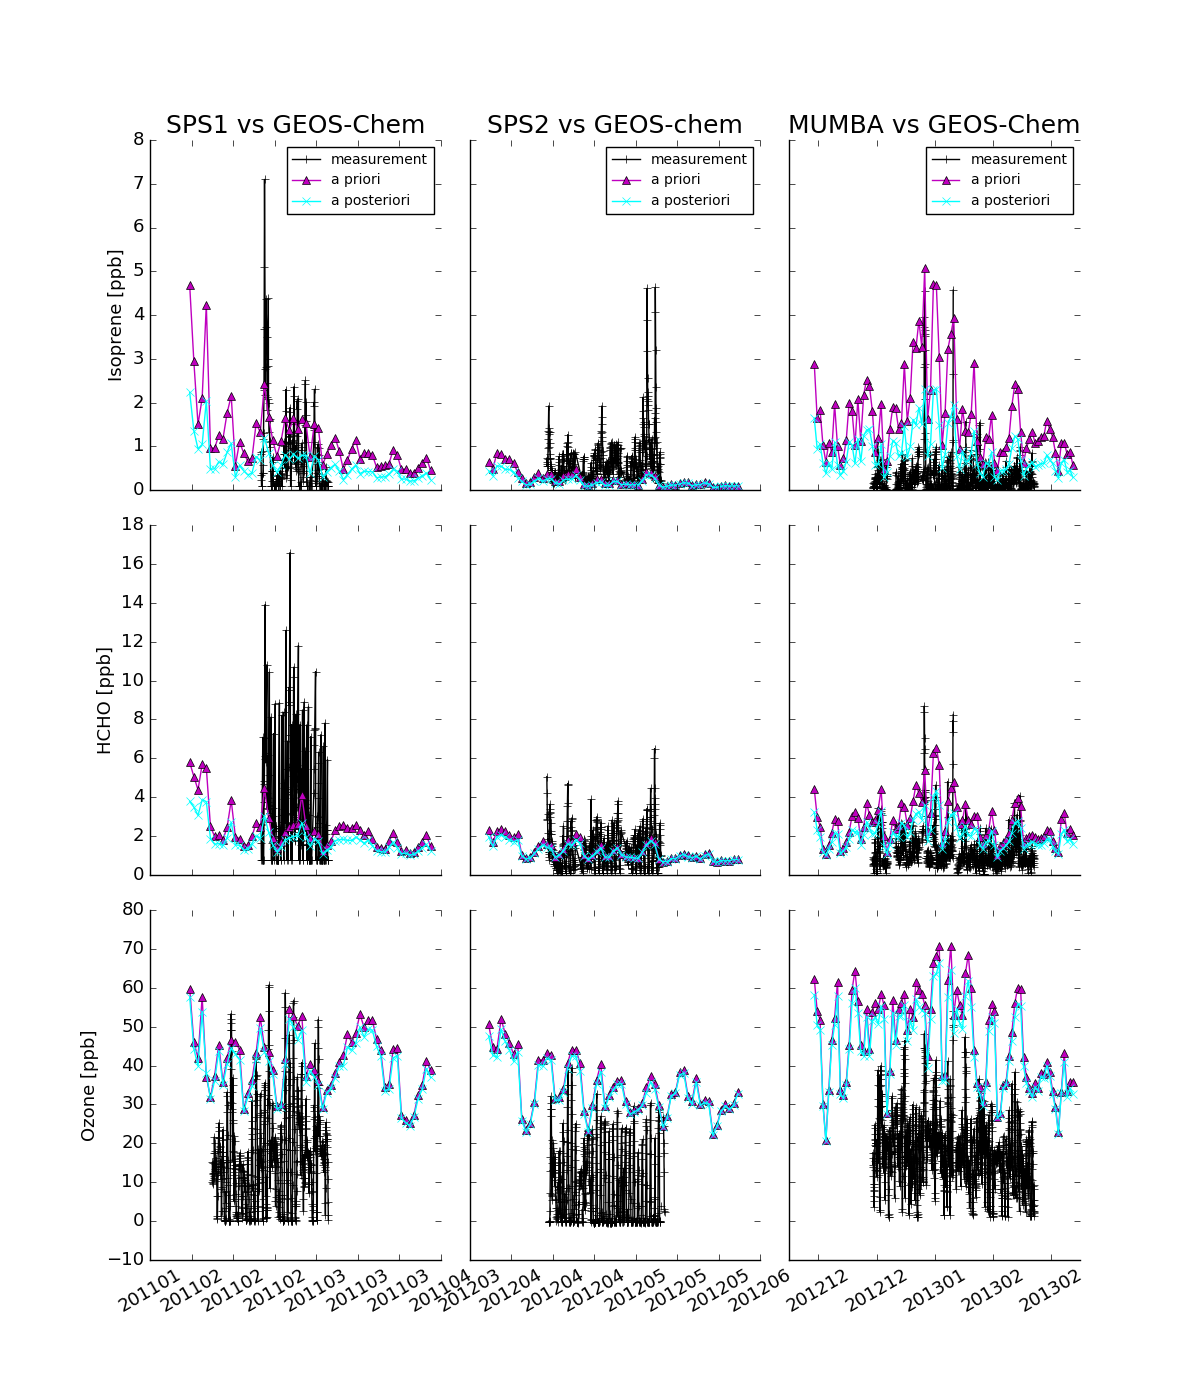
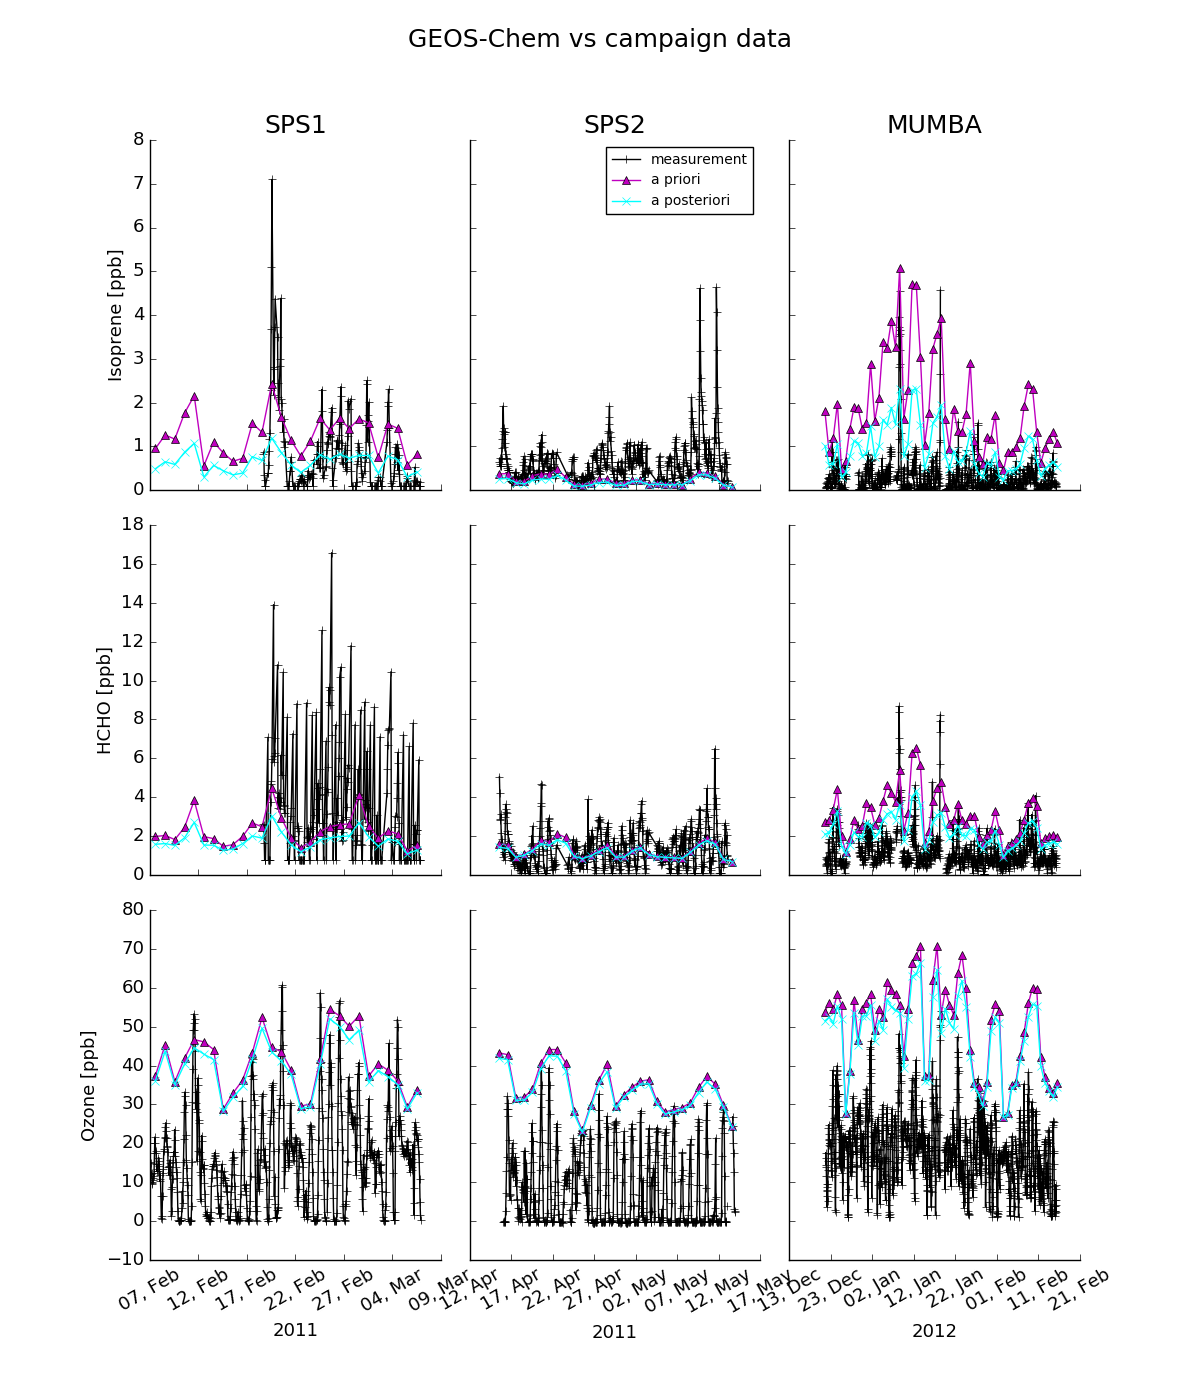
updated hcho total columns prelim plot

diff --git a/chapter_3_isop.py b/chapter_3_isop.py
@@ -1382,6 +1382,8 @@ def regional_seasonal_comparison():
 
 def hcho_vs_satellite():
     '''
+        Total column for geos chem apri and apost vs OMI_PP
+        bar chart for seasons and regions, with std error bars
     '''
     pname = "Figs/hcho_vs_satellite.png"
     if __VERBOSE__:
@@ -1425,7 +1427,7 @@ def hcho_vs_satellite():
         plt.ylabel(labels[i], color=colors[i], fontsize=24)
         
         if i==0:
-            plt.legend(loc='best', fontsize=15)
+            plt.legend(loc='best', fontsize=15,ncol=3)
         if i%2 == 1:
             
             axes[i].yaxis.set_label_position("right")
@@ -1506,8 +1508,8 @@ def campaign_vs_GC(midday=True):
         # subset trop dates to match measurement dates
         first_day   = min(cdates[0],odates[0])
         last_day    = max(cdates[-1],odates[-1])
-        di0         = util.date_index(first_day,dates0,ignore_hour=True)
-        di1         = util.date_index(last_day,dates0, ignore_hour=True)
+        di0         = util.date_index(first_day,dates0,ignore_hours=True)
+        di1         = util.date_index(last_day,dates0, ignore_hours=True)
         dirange     = np.arange(di0,di1+1)
         dates       = np.array(dates)[dirange]
         
@@ -1541,6 +1543,8 @@ def campaign_vs_GC(midday=True):
             
             if i==2:
                 plt.xlabel([2011,2012][j>1])
+                xinds = np.floor(np.linspace(0,len(dates),4))
+                plt.xticks(dates[xinds])
             
     plt.subplots_adjust(wspace=0.1, hspace=0.1)
     plt.suptitle('GEOS-Chem vs campaign data')
@@ -2063,11 +2067,11 @@ if __name__ == "__main__":
     #compare_model_outputs()
     
     # Check how HCHO mean and variance looks compared to omi
-    #hcho_vs_satellite()
+    hcho_vs_satellite()
     
     #  trend analysis plots, printing slopes for tabularisation
     #trend_analysis()
-    seasonal_differences()
+    #seasonal_differences()
     #[ozone_sensitivity(aa) for aa in [True, False] ]
         
     
